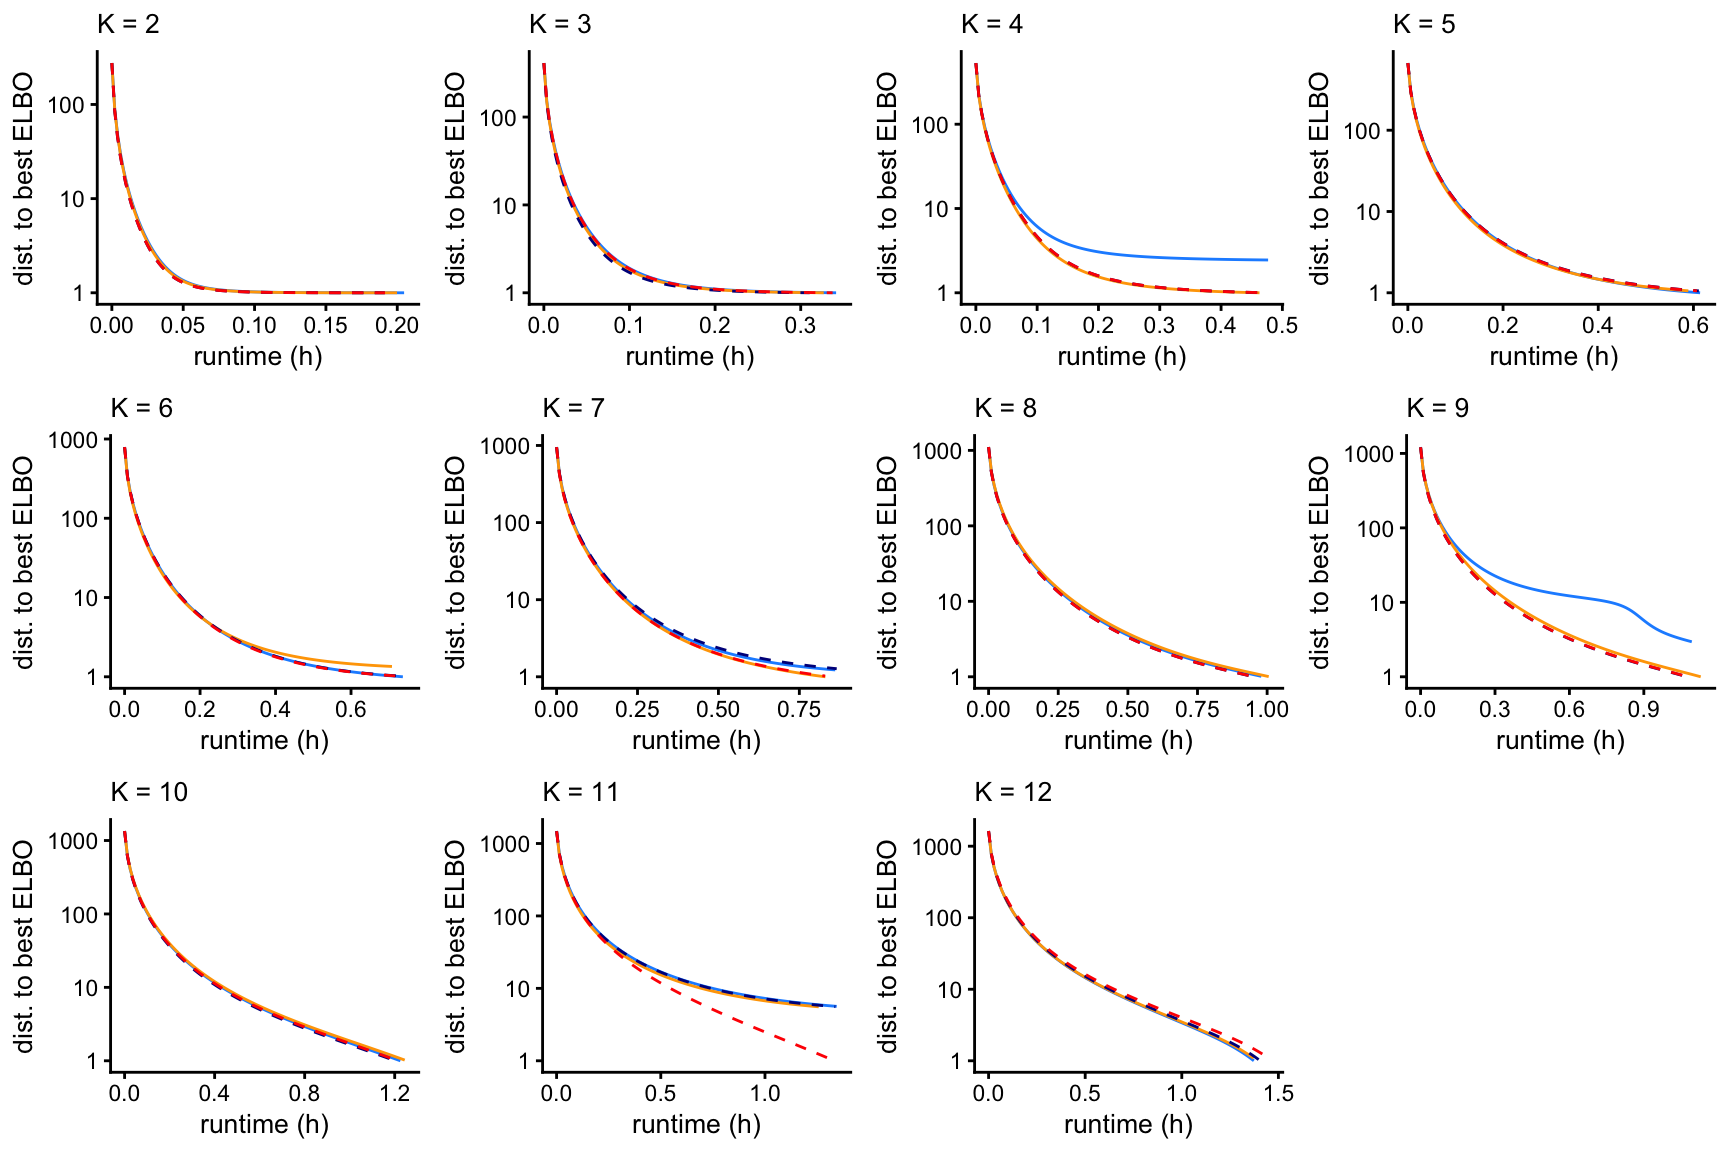
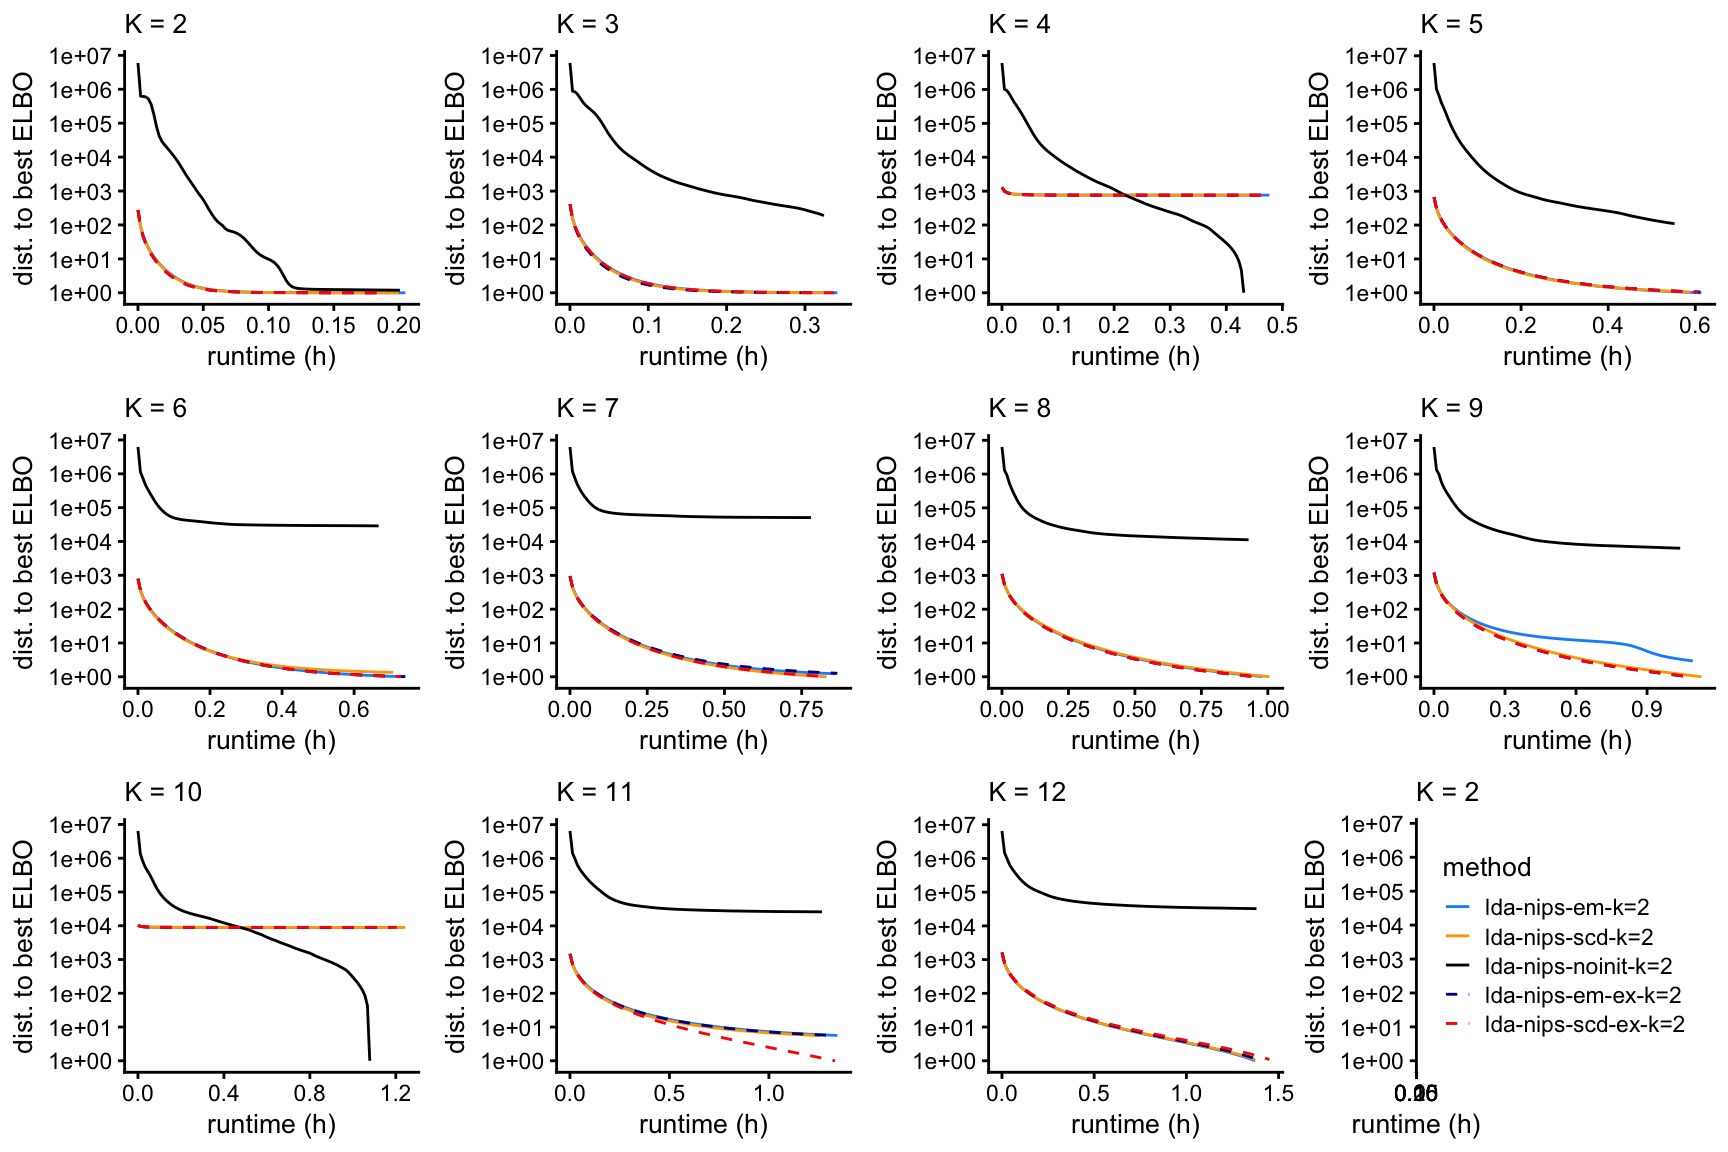
Added 'noinit' results to elbo plots for nips data.

diff --git a/docs/assess_fits_nips.html b/docs/assess_fits_nips.html
@@ -300,7 +300,7 @@ class="glyphicon glyphicon-ok text-success" aria-hidden="true"></span>
 <div class="tab-content">
 <div id="summary" class="tab-pane fade in active">
 <p>
-<strong>Last updated:</strong> 2024-07-29
+<strong>Last updated:</strong> 2024-08-21
 </p>
 <p>
 <strong>Checks:</strong> <span
@@ -432,15 +432,15 @@ project makes it easier to run your code on other machines.</p>
 <div class="panel panel-default">
 <div class="panel-heading">
 <p class="panel-title">
-<a data-toggle="collapse" data-parent="#workflowr-checks" href="#strongRepositoryversionstrongahrefhttpsgithubcomstephenslabfastTopicsexperimentstreef14aa4dee29c1a9b4f449840abd0d02e4ce046b3targetblankf14aa4da">
+<a data-toggle="collapse" data-parent="#workflowr-checks" href="#strongRepositoryversionstrongahrefhttpsgithubcomstephenslabfastTopicsexperimentstreea482257f7c3f5a15f3c42b01287ed710b1de5522targetblanka482257a">
 <span class="glyphicon glyphicon-ok text-success"
 aria-hidden="true"></span> <strong>Repository version:</strong>
-<a href="https://github.com/stephenslab/fastTopics-experiments/tree/f14aa4dee29c1a9b4f449840abd0d02e4ce046b3" target="_blank">f14aa4d</a>
+<a href="https://github.com/stephenslab/fastTopics-experiments/tree/a482257f7c3f5a15f3c42b01287ed710b1de5522" target="_blank">a482257</a>
 </a>
 </p>
 </div>
 <div
[2 lines of base64/hex data omitted]
 class="panel-collapse collapse">
 <div class="panel-body">
 <p>
@@ -450,7 +450,7 @@ reproducibility.
 </p>
 <p>
 The results in this page were generated with repository version
-<a href="https://github.com/stephenslab/fastTopics-experiments/tree/f14aa4dee29c1a9b4f449840abd0d02e4ce046b3" target="_blank">f14aa4d</a>.
+<a href="https://github.com/stephenslab/fastTopics-experiments/tree/a482257f7c3f5a15f3c42b01287ed710b1de5522" target="_blank">a482257</a>.
 See the <em>Past versions</em> tab to see a history of the changes made
 to the R Markdown and HTML files.
 </p>
@@ -470,27 +470,25 @@ Ignored files:
     Ignored:    data/droplet.RData
     Ignored:    data/nips_1-17.mat
     Ignored:    data/pbmc_68k.RData
-    Ignored:    output/droplet/fits-droplet.RData
     Ignored:    output/newsgroups/de-newsgroups.RData
     Ignored:    output/newsgroups/fits-newsgroups.RData
-    Ignored:    output/newsgroups/lda-newsgroups.RData
+    Ignored:    output/newsgroups/rds/
     Ignored:    output/nips/fits-nips.RData
-    Ignored:    output/nips/lda-nips.RData
-    Ignored:    output/pbmc68k/fits-pbmc68k.RData
+    Ignored:    output/pbmc68k/rds/
 
 Untracked files:
-    Untracked:  .DS_Store
     Untracked:  analysis/lda-eb-newsgroups-em-k=10.rds
     Untracked:  analysis/lda-eb-newsgroups-scd-ex-k=10.rds
     Untracked:  analysis/lda-newsgroups-em-k=10.rds
     Untracked:  analysis/lda-newsgroups-scd-ex-k=10.rds
     Untracked:  analysis/maptpx-newsgroups-em-k=10.rds
     Untracked:  analysis/maptpx-newsgroups-scd-ex-k=10.rds
-    Untracked:  analysis/smallsim_elbo.pdf
-    Untracked:  analysis/smallsim_lda_structure_plots.pdf
-    Untracked:  analysis/smallsim_progress.pdf
-    Untracked:  analysis/smallsim_structure_plots.pdf
+    Untracked:  output/newsgroups/lda-newsgroups.RData
+    Untracked:  output/nips/lda-nips.RData
     Untracked:  plots/
+
+Unstaged changes:
+    Modified:   analysis/assess_fits_newsgroups.Rmd
 
 </code></pre>
 <p>
@@ -536,6 +534,40 @@ Message
 </tr>
 </thead>
 <tbody>
+<tr>
+<td>
+Rmd
+</td>
+<td>
+<a href="https://github.com/stephenslab/fastTopics-experiments/blob/a482257f7c3f5a15f3c42b01287ed710b1de5522/analysis/assess_fits_nips.Rmd" target="_blank">a482257</a>
+</td>
+<td>
+Peter Carbonetto
+</td>
+<td>
+2024-08-21
+</td>
+<td>
+workflowr::wflow_publish("assess_fits_nips.Rmd", verbose = TRUE)
+</td>
+</tr>
+<tr>
+<td>
+html
+</td>
+<td>
+<a href="https://rawcdn.githack.com/stephenslab/fastTopics-experiments/70d8b9632258163fa0a322b12ca20fdc3438b7f9/docs/assess_fits_nips.html" target="_blank">70d8b96</a>
+</td>
+<td>
+Peter Carbonetto
+</td>
+<td>
+2024-07-29
+</td>
+<td>
+Added ELBO plots to the assess_fits_nips analysis.
+</td>
+</tr>
 <tr>
 <td>
 Rmd
@@ -826,6 +858,17 @@ Date
 <tbody>
 <tr>
 <td>
+<a href="https://github.com/stephenslab/fastTopics-experiments/blob/70d8b9632258163fa0a322b12ca20fdc3438b7f9/docs/figure/assess_fits_nips.Rmd/plot-loglik-vs-k-1.png" target="_blank">70d8b96</a>
+</td>
+<td>
+Peter Carbonetto
+</td>
+<td>
+2024-07-29
+</td>
+</tr>
+<tr>
+<td>
 <a href="https://github.com/stephenslab/fastTopics-experiments/blob/269a77bd395aee274d4c10c67a236a32e510824e/docs/figure/assess_fits_nips.Rmd/plot-loglik-vs-k-1.png" target="_blank">269a77b</a>
 </td>
 <td>
@@ -894,6 +937,17 @@ Date
 <tbody>
 <tr>
 <td>
+<a href="https://github.com/stephenslab/fastTopics-experiments/blob/70d8b9632258163fa0a322b12ca20fdc3438b7f9/docs/figure/assess_fits_nips.Rmd/plot-loglik-1.png" target="_blank">70d8b96</a>
+</td>
+<td>
+Peter Carbonetto
+</td>
+<td>
+2024-07-29
+</td>
+</tr>
+<tr>
+<td>
 <a href="https://github.com/stephenslab/fastTopics-experiments/blob/b2fe08fa33f9dfcc62e1e6a6ef4baa5e001cf5be/docs/figure/assess_fits_nips.Rmd/plot-loglik-1.png" target="_blank">b2fe08f</a>
 </td>
 <td>
@@ -948,6 +1002,17 @@ Date
 </tr>
 </thead>
 <tbody>
+<tr>
+<td>
+<a href="https://github.com/stephenslab/fastTopics-experiments/blob/70d8b9632258163fa0a322b12ca20fdc3438b7f9/docs/figure/assess_fits_nips.Rmd/plot-res-1.png" target="_blank">70d8b96</a>
+</td>
+<td>
+Peter Carbonetto
+</td>
+<td>
+2024-07-29
+</td>
+</tr>
 <tr>
 <td>
 <a href="https://github.com/stephenslab/fastTopics-experiments/blob/b2fe08fa33f9dfcc62e1e6a6ef4baa5e001cf5be/docs/figure/assess_fits_nips.Rmd/plot-res-1.png" target="_blank">b2fe08f</a>
@@ -1013,6 +1078,17 @@ Date
 <tbody>
 <tr>
 <td>
+<a href="https://github.com/stephenslab/fastTopics-experiments/blob/70d8b9632258163fa0a322b12ca20fdc3438b7f9/docs/figure/assess_fits_nips.Rmd/loadings-scatterplot-1.png" target="_blank">70d8b96</a>
+</td>
+<td>
+Peter Carbonetto
+</td>
+<td>
+2024-07-29
+</td>
+</tr>
+<tr>
+<td>
 <a href="https://github.com/stephenslab/fastTopics-experiments/blob/7149b0906c4df676131f1639ee5ea9c0050bc77b/docs/figure/assess_fits_nips.Rmd/loadings-scatterplot-1.png" target="_blank">7149b09</a>
 </td>
 <td>
@@ -1041,15 +1117,55 @@ Peter Carbonetto
 various initializations:</p>
 <pre class="r"><code>load(&quot;../output/nips/lda-nips.RData&quot;)
 p &lt;- vector(&quot;list&quot;,12)
+runs   &lt;- which(dat$k == 2)
+p[[1]] &lt;- create_elbo_plot(fits[runs],dat[runs,&quot;runtime&quot;],2)
 for (i in 2:12) {
   runs   &lt;- which(dat$k == i)
-  p[[i]] &lt;- create_elbo_plot(fits[runs],dat[runs,&quot;runtime&quot;],i)
+  p[[i]] &lt;- create_elbo_plot(fits[runs],dat[runs,&quot;runtime&quot;],i) +
+    guides(color = &quot;none&quot;,linetype = &quot;none&quot;)
 }
 plot_grid(p[[2]],p[[3]],p[[4]],p[[5]],
           p[[6]],p[[7]],p[[8]],p[[9]],
-          p[[10]],p[[11]],p[[12]],
+          p[[10]],p[[11]],p[[12]],p[[1]],
           nrow = 3,ncol = 4)</code></pre>
 <p><img src="figure/assess_fits_nips.Rmd/elbo-plots-1.png" width="864" style="display: block; margin: auto;" /></p>
+<p>
+<button type="button" class="btn btn-default btn-xs btn-workflowr btn-workflowr-fig" data-toggle="collapse" data-target="#fig-elbo-plots-1">
+Past versions of elbo-plots-1.png
+</button>
+</p>
+<div id="fig-elbo-plots-1" class="collapse">
+<div class="table-responsive">
+<table class="table table-condensed table-hover">
+<thead>
+<tr>
+<th>
+Version
+</th>
+<th>
+Author
+</th>
+<th>
+Date
+</th>
+</tr>
+</thead>
+<tbody>
+<tr>
+<td>
+<a href="https://github.com/stephenslab/fastTopics-experiments/blob/70d8b9632258163fa0a322b12ca20fdc3438b7f9/docs/figure/assess_fits_nips.Rmd/elbo-plots-1.png" target="_blank">70d8b96</a>
+</td>
+<td>
+Peter Carbonetto
+</td>
+<td>
+2024-07-29
+</td>
+</tr>
+</tbody>
+</table>
+</div>
+</div>
 <br>
 <p>
 <button type="button" class="btn btn-default btn-workflowr btn-workflowr-sessioninfo" data-toggle="collapse" data-target="#workflowr-sessioninfo" style="display: block;">
